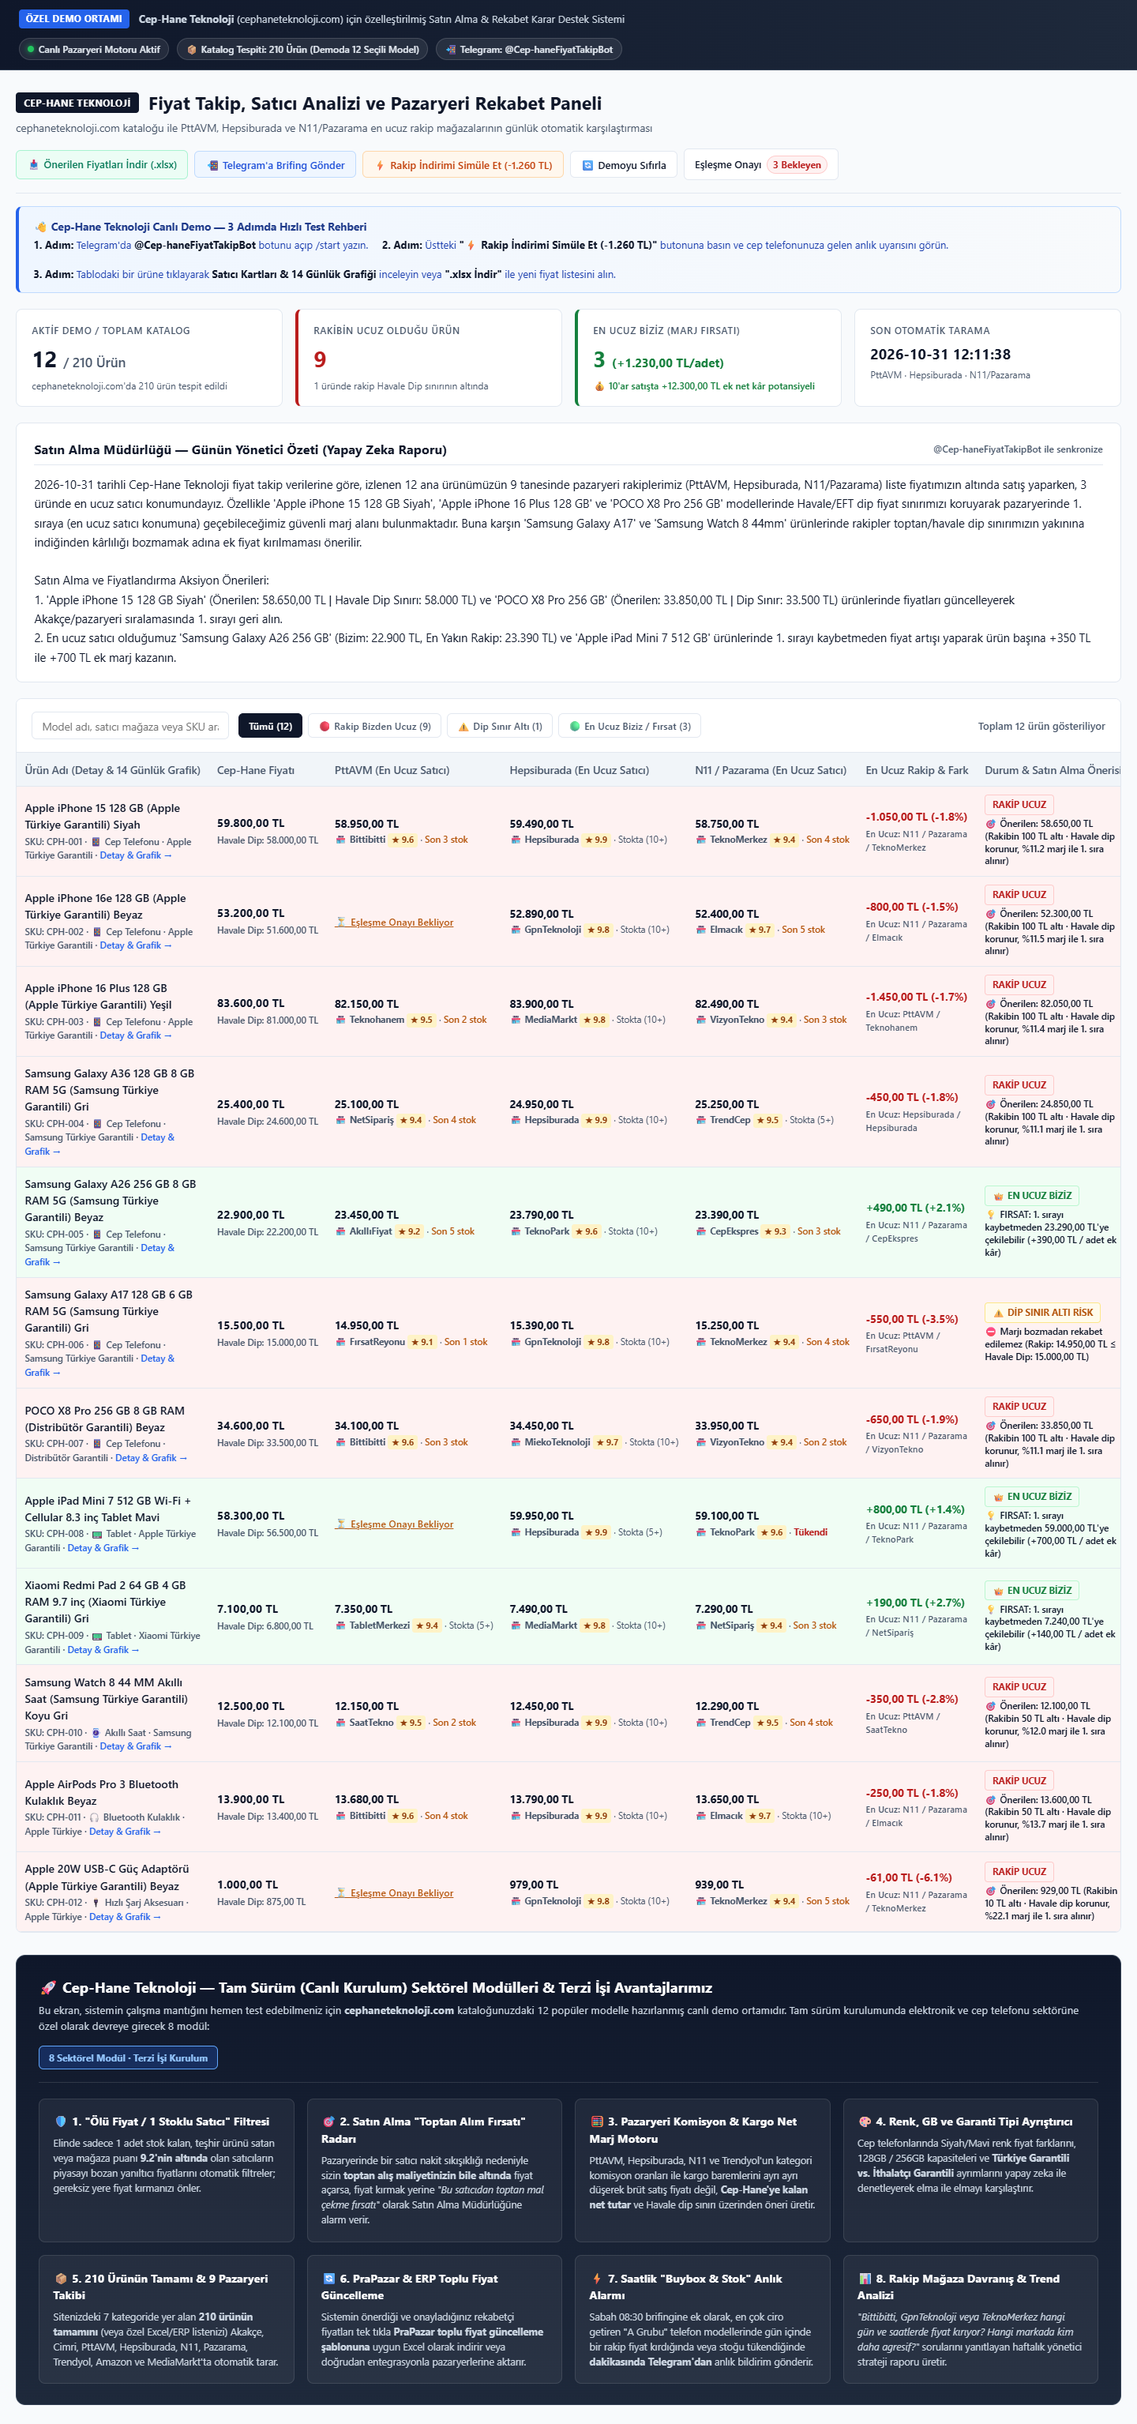
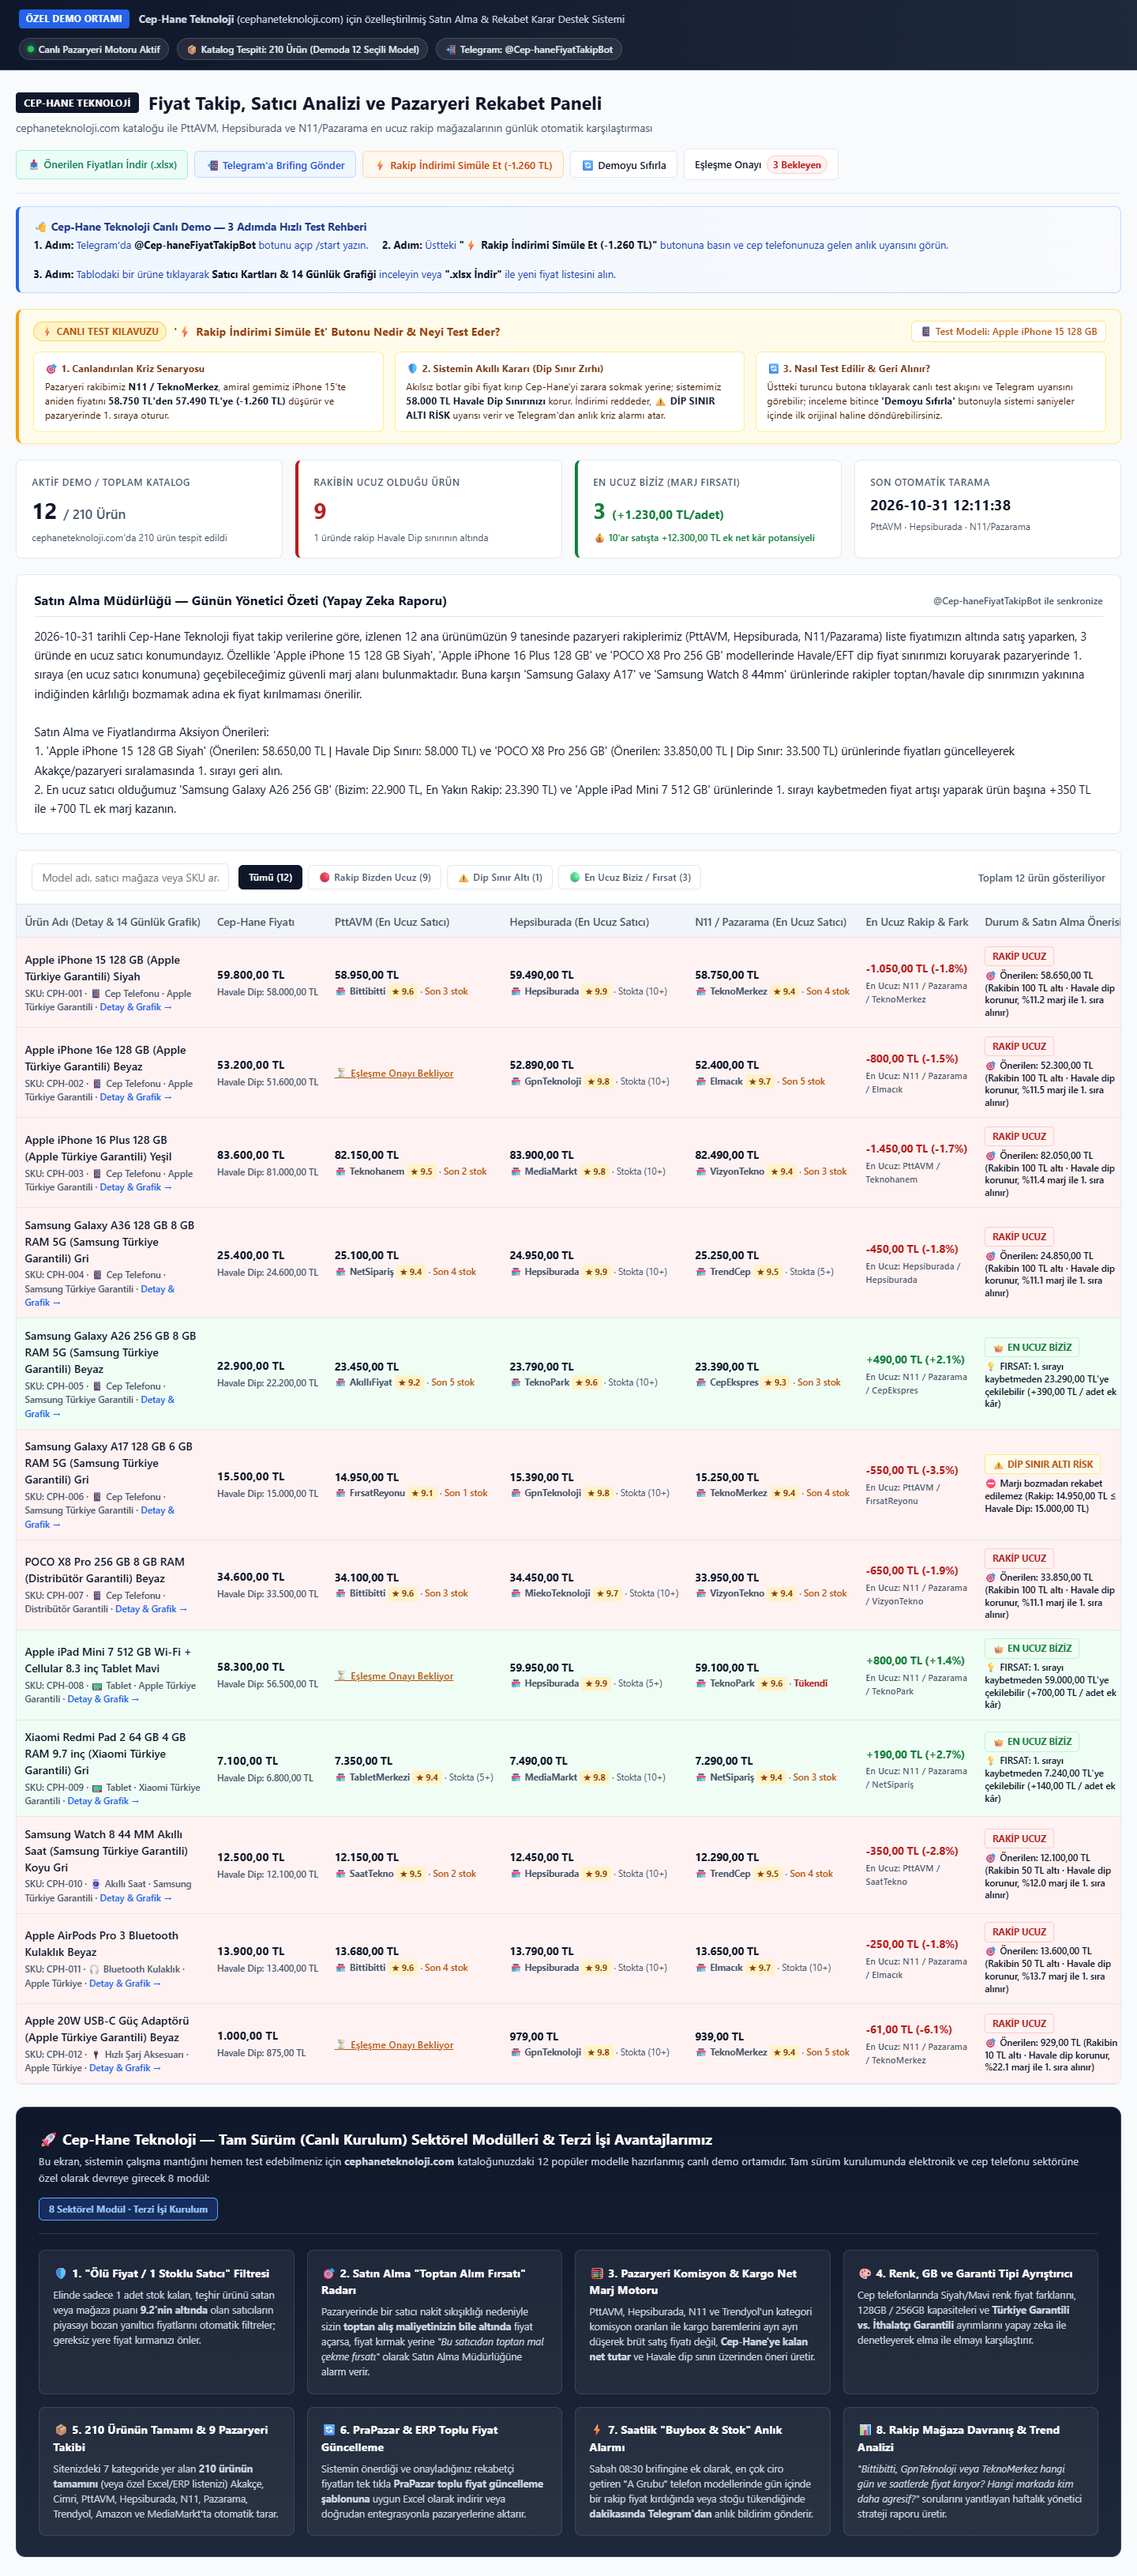
Add simulation explainer card explaining exact crisis scenario, dip limit defense and test workflow

Changed region(s): [[0.0, 0.0, 1.0, 1.0]]

diff --git a/src/fiyat_takip_sistemi/api/templates/index.html b/src/fiyat_takip_sistemi/api/templates/index.html
@@ -189,6 +189,84 @@
             border: 1px solid var(--green-border);
         }
 
+        /* Simülasyon Açıklama Kutusu */
+        .simulation-explainer-card {
+            background: #fffbeb;
+            border: 1px solid #fde68a;
+            border-left: 4px solid #f59e0b;
+            border-radius: 0.6rem;
+            padding: 0.9rem 1.15rem;
+            margin-bottom: 1.25rem;
+            box-shadow: 0 1px 3px rgba(0,0,0,0.03);
+        }
+        .sim-header {
+            display: flex;
+            justify-content: space-between;
+            align-items: center;
+            margin-bottom: 0.75rem;
+            flex-wrap: wrap;
+            gap: 0.5rem;
+        }
+        .sim-title {
+            display: flex;
+            align-items: center;
+            gap: 0.6rem;
+            font-size: 0.9rem;
+            color: #92400e;
+        }
+        .sim-badge {
+            background: #fef3c7;
+            color: #b45309;
+            font-size: 0.72rem;
+            font-weight: 700;
+            padding: 0.2rem 0.55rem;
+            border-radius: 9999px;
+            border: 1px solid #fcd34d;
+            text-transform: uppercase;
+            letter-spacing: 0.03em;
+        }
+        .sim-tag {
+            font-size: 0.78rem;
+            font-weight: 600;
+            color: #b45309;
+            background: #ffffff;
+            padding: 0.2rem 0.6rem;
+            border-radius: 0.35rem;
+            border: 1px solid #fde68a;
+        }
+        .sim-grid {
+            display: grid;
+            grid-template-columns: repeat(3, 1fr);
+            gap: 0.85rem;
+        }
+        @media (max-width: 900px) {
+            .sim-grid { grid-template-columns: 1fr; }
+        }
+        .sim-col {
+            background: #ffffff;
+            border: 1px solid #fef08a;
+            border-radius: 0.45rem;
+            padding: 0.7rem 0.85rem;
+        }
+        .sim-col-label {
+            font-size: 0.78rem;
+            font-weight: 700;
+            color: #78350f;
+            margin-bottom: 0.3rem;
+            display: flex;
+            align-items: center;
+            gap: 0.3rem;
+        }
+        .sim-col p {
+            font-size: 0.775rem;
+            line-height: 1.45;
+            color: #451a03;
+            margin: 0;
+        }
+        .sim-col p strong {
+            color: #0f172a;
+        }
+
         /* 1. Üstte 4 Özet Kutusu */
         .summary-grid {
             display: grid;
@@ -863,6 +941,31 @@
         </div>
 
         <div id="toastBanner" class="toast-banner"></div>
+
+        <!-- Simülasyon Açıklama Kutusu: Neyi Test Eder? -->
+        <section class="simulation-explainer-card">
+            <div class="sim-header">
+                <div class="sim-title">
+                    <span class="sim-badge">⚡ Canlı Test Kılavuzu</span>
+                    <strong>'⚡ Rakip İndirimi Simüle Et' Butonu Nedir &amp; Neyi Test Eder?</strong>
+                </div>
+                <div class="sim-tag">📱 Test Modeli: Apple iPhone 15 128 GB</div>
+            </div>
+            <div class="sim-grid">
+                <div class="sim-col">
+                    <div class="sim-col-label">🎯 1. Canlandırılan Kriz Senaryosu</div>
+                    <p>Pazaryeri rakibimiz <strong>N11 / TeknoMerkez</strong>, amiral gemimiz iPhone 15'te aniden fiyatını <strong>58.750 TL'den 57.490 TL'ye (-1.260 TL)</strong> düşürür ve pazaryerinde 1. sıraya oturur.</p>
+                </div>
+                <div class="sim-col">
+                    <div class="sim-col-label">🛡 2. Sistemin Akıllı Kararı (Dip Sınır Zırhı)</div>
+                    <p>Akılsız botlar gibi fiyat kırıp Cep-Hane'yi zarara sokmak yerine; sistemimiz <strong>58.000 TL Havale Dip Sınırınızı</strong> korur. İndirimi reddeder, <strong>⚠ DİP SINIR ALTI RİSK</strong> uyarısı verir ve Telegram'dan anlık kriz alarmı atar.</p>
+                </div>
+                <div class="sim-col">
+                    <div class="sim-col-label">🔄 3. Nasıl Test Edilir &amp; Geri Alınır?</div>
+                    <p>Üstteki turuncu butona tıklayarak canlı test akışını ve Telegram uyarısını görebilir; inceleme bitince <strong>'Demoyu Sıfırla'</strong> butonuyla sistemi saniyeler içinde ilk orijinal haline döndürebilirsiniz.</p>
+                </div>
+            </div>
+        </section>
 
         <!-- 1. Üstte 4 Özet Kutusu -->
         <section class="summary-grid">
